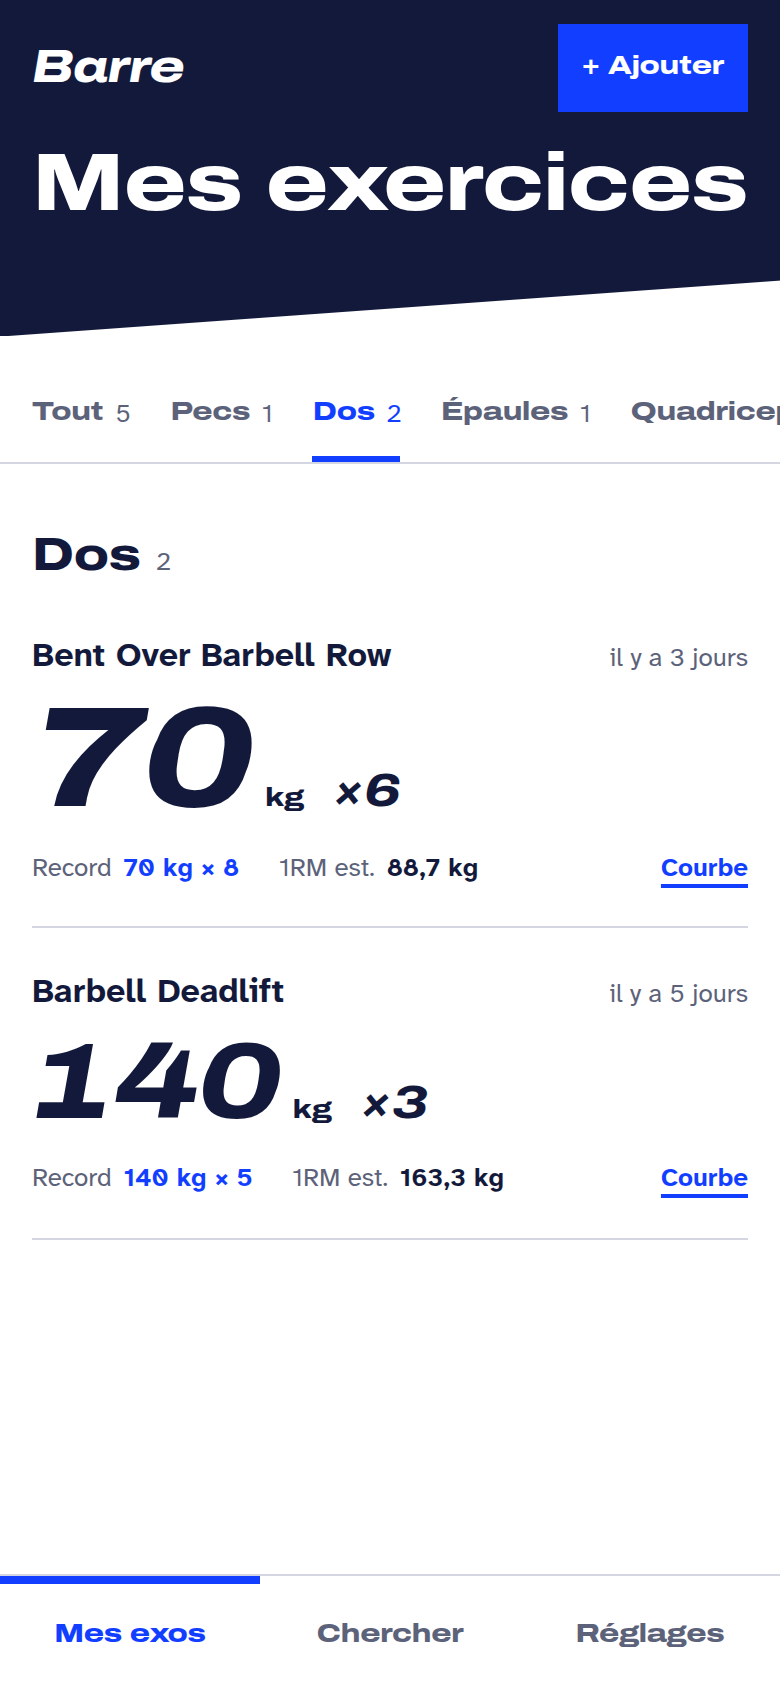
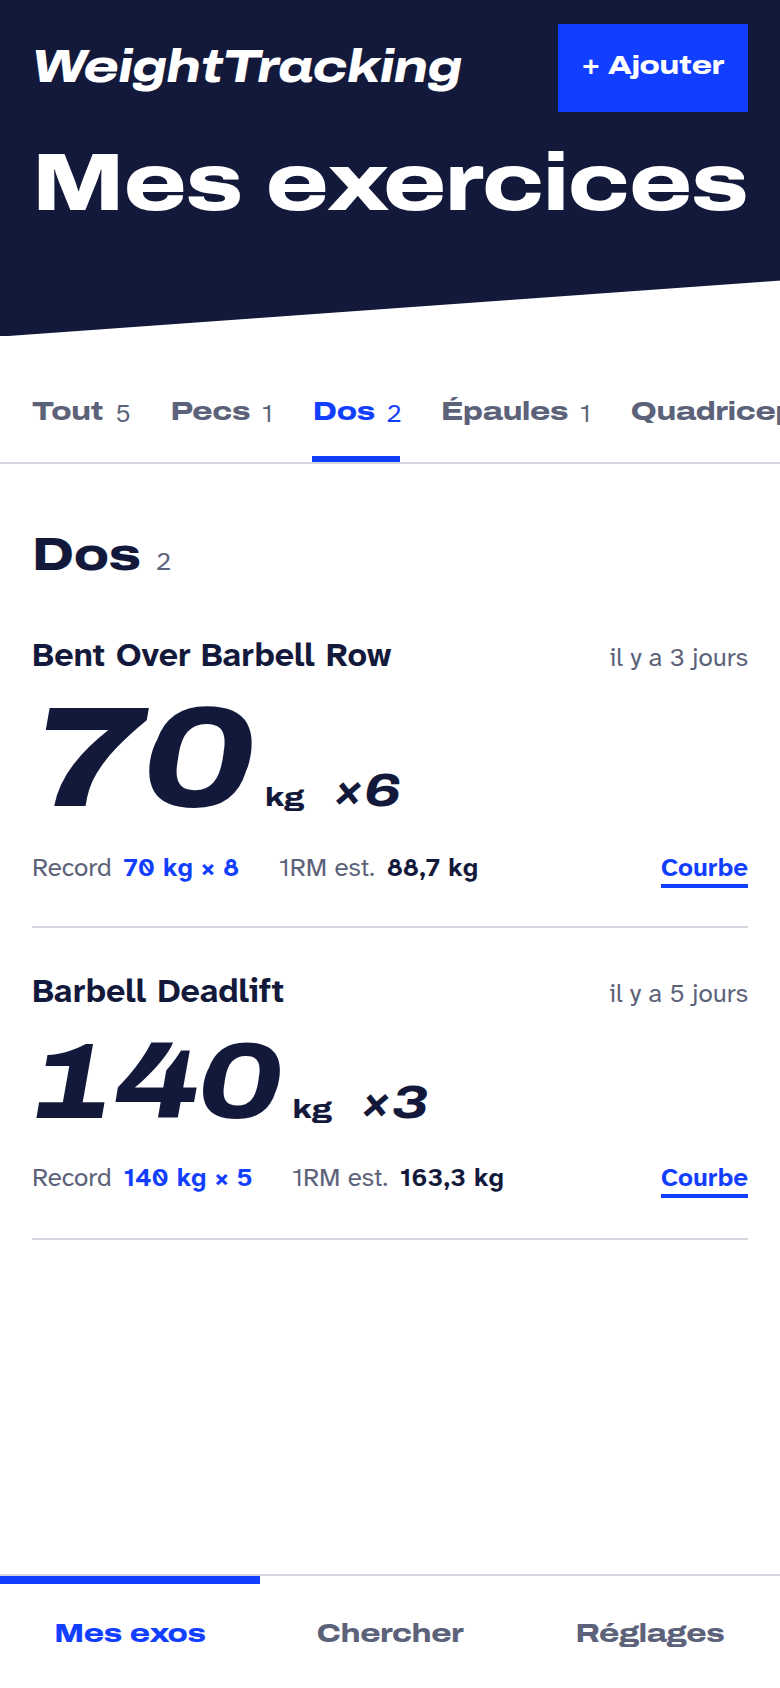
chore: l'app s'appelle désormais WeightTracking
- Nom affiché partout : titre, manifeste PWA, logo, README, DESIGN.md,
  messages, nom du fichier d'export
- Icônes et favicon : W à la place du B
- Nom de la base IndexedDB et identifiant du format de sauvegarde
  conservés, pour garder les données et les exports existants

Changed region(s): [[0.0308, 0.0308, 0.5846, 0.0616]]

diff --git a/src/lib/backup.ts b/src/lib/backup.ts
@@ -2,6 +2,8 @@ import { db } from '../db/db'
 import type { UserExercise, WorkoutEntry, WorkoutSet } from '../types'
 
 /** Sauvegarde JSON : exercices suivis et séances (le catalogue se re-télécharge). */
+// L'identifiant de format reste « barre-backup » (ancien nom) : les sauvegardes
+// déjà exportées doivent continuer à s'importer.
 export interface Backup {
   format: 'barre-backup'
   version: 1
@@ -124,7 +126,7 @@ const hasDuplicates = (values: readonly unknown[]) =>
 /** Vérifie un fichier de sauvegarde ; lève une BackupError au message lisible. */
 export function parseBackup(raw: unknown): Backup {
   if (!isObj(raw) || raw.format !== 'barre-backup') {
-    fail('Ce fichier n’est pas une sauvegarde Barre.')
+    fail('Ce fichier n’est pas une sauvegarde WeightTracking.')
   }
   if (raw.version !== 1) fail('Version de sauvegarde non prise en charge.')
   if (!Array.isArray(raw.userExercises) || !Array.isArray(raw.workouts)) {

diff --git a/src/components/UpdatePrompt.tsx b/src/components/UpdatePrompt.tsx
@@ -16,7 +16,9 @@ export function UpdatePrompt() {
       className="fixed inset-x-0 bottom-[calc(3.5rem+env(safe-area-inset-bottom))] z-30 bg-night text-white"
     >
       <div className="mx-auto flex max-w-2xl items-center gap-4 px-4 py-2 [&_*:focus-visible]:outline-white">
-        <p className="flex-1">Une nouvelle version de Barre est prête.</p>
+        <p className="flex-1">
+          Une nouvelle version de WeightTracking est prête.
+        </p>
         <button
           type="button"
           onClick={() => void updateServiceWorker(true)}

diff --git a/vite.config.ts b/vite.config.ts
@@ -17,8 +17,8 @@ export default defineConfig({
       registerType: 'prompt',
       includeAssets: ['favicon.svg', 'apple-touch-icon.png'],
       manifest: {
-        name: 'Barre · tes charges, séance après séance',
-        short_name: 'Barre',
+        name: 'WeightTracking · tes charges, séance après séance',
+        short_name: 'WeightTracking',
         description:
           'Suivi de progression en musculation, exercice par exercice.',
         lang: 'fr',

diff --git a/index.html b/index.html
@@ -19,7 +19,7 @@
       rel="stylesheet"
       href="https://fonts.googleapis.com/css2?family=Archivo:ital,wdth,wght@0,125,800;1,125,800&family=Atkinson+Hyperlegible+Next:ital,wght@0,400;0,700;1,400&display=swap"
     />
-    <title>Barre · tes charges, séance après séance</title>
+    <title>WeightTracking · tes charges, séance après séance</title>
   </head>
   <body>
     <div id="root"></div>

diff --git a/src/components/PageHeader.tsx b/src/components/PageHeader.tsx
@@ -40,7 +40,9 @@ export function PageHeader({ title, back, logo, action, children }: Props) {
               </button>
             ))}
           {logo && (
-            <span className="display text-lead text-white italic">Barre</span>
+            <span className="display text-lead text-white italic">
+              WeightTracking
+            </span>
           )}
           {action}
         </div>

diff --git a/src/features/tracking/MyExercisesPage.tsx b/src/features/tracking/MyExercisesPage.tsx
@@ -101,8 +101,8 @@ export function MyExercisesPage() {
             </div>
           }
         >
-          Ajoute un exercice : à chaque retour à la salle, Barre t’affiche ce
-          que tu as soulevé la dernière fois.
+          Ajoute un exercice : à chaque retour à la salle, WeightTracking
+          t’affiche ce que tu as soulevé la dernière fois.
         </EmptyState>
       )}
 

diff --git a/src/db/db.ts b/src/db/db.ts
@@ -1,6 +1,7 @@
 import Dexie, { type EntityTable } from 'dexie'
 import type { Exercise, UserExercise, WorkoutEntry } from '../types'
 
+// Nom de base conservé (ancien nom de l'app) : le changer viderait les données des utilisateurs.
 export const db = new Dexie('barre') as Dexie & {
   exercises: EntityTable<Exercise, 'id'>
   userExercises: EntityTable<UserExercise, 'id'>

diff --git a/src/features/settings/SettingsPage.tsx b/src/features/settings/SettingsPage.tsx
@@ -86,7 +86,7 @@ export function SettingsPage() {
   const exportData = () =>
     run(async () => {
       downloadJson(
-        `barre-sauvegarde-${toISODate(new Date())}.json`,
+        `weighttracking-sauvegarde-${toISODate(new Date())}.json`,
         await exportBackup(),
       )
     }, 'Sauvegarde téléchargée.')

diff --git a/README.md b/README.md
@@ -31,7 +31,7 @@ jambes, un tap sur « Mollets » ne montre plus que les mollets.
 
 La saisie reprend les séries de la dernière fois. Les boutons font ±2,5 kg et ±1 rep,
 la virgule est acceptée, une valeur invalide est soulignée en rouge. À
-l’enregistrement, Barre compare avec l’historique : charge max battue, 1RM battu, ou
+l’enregistrement, WeightTracking compare avec l’historique : charge max battue, 1RM battu, ou
 les deux.
 
 L’écran Progression trace la charge max et le 1RM sur une vraie échelle de temps (deux

diff --git a/DESIGN.md b/DESIGN.md
@@ -1,6 +1,6 @@
-# Barre · direction artistique « Tableau d'affichage »
+# WeightTracking · direction artistique « Tableau d'affichage »
 
-Barre se lit comme le tableau des charges d'une salle : des chiffres énormes, lisibles
+WeightTracking se lit comme le tableau des charges d'une salle : des chiffres énormes, lisibles
 de loin, sur du blanc et du bleu nuit. Le chiffre est la vedette, le reste se tait.
 
 Références : Basic-Fit (typo sportive épaisse, coupes en biais, blocs pleins),
